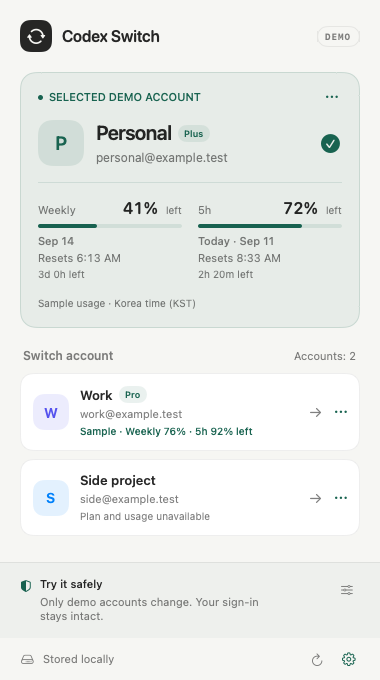
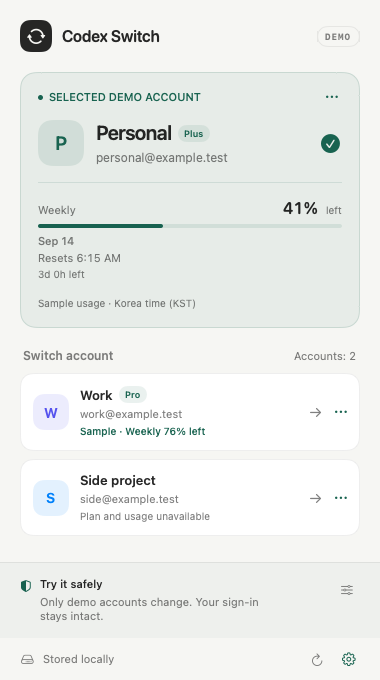
fix: remove five-hour quota from demo accounts

Changed region(s): [[0.5211, 0.2779, 0.8105, 0.4324], [0.2605, 0.2779, 0.4632, 0.3397], [0.4921, 0.6176, 0.6658, 0.6485]]

diff --git a/Sources/SwitchCore/Usage.swift b/Sources/SwitchCore/Usage.swift
@@ -61,10 +61,9 @@ public struct UsageSnapshot {
     public var preferredWindow: UsageWindow? { windows.first { $0.windowDurationMins == 10080 } ?? windows.first }
 
     public static func demo(profileID: String, index: Int, now: Date = Date()) throws -> UsageSnapshot {
-        let used = index == 0 ? [28, 59] : [8, 24]
+        let used = index == 0 ? 59 : 24
         let data = try JSONSerialization.data(withJSONObject: ["rateLimitsByLimitId": ["codex": [
-            "primary": ["usedPercent": used[0], "windowDurationMins": 300, "resetsAt": now.addingTimeInterval(8400).timeIntervalSince1970],
-            "secondary": ["usedPercent": used[1], "windowDurationMins": 10080, "resetsAt": now.addingTimeInterval(259200).timeIntervalSince1970]
+            "primary": ["usedPercent": used, "windowDurationMins": 10080, "resetsAt": now.addingTimeInterval(259200).timeIntervalSince1970]
         ]]])
         return try parse(data, profileID: profileID, plan: index == 0 ? "plus" : "pro", observedAt: now, isDemo: true)
     }

diff --git a/README.md b/README.md
@@ -10,7 +10,7 @@ A small macOS menu-bar utility for choosing between saved Codex accounts. Built 
 
 - Three synthetic accounts in demo mode, account renaming, and simulated switching/recovery.
 - Korean and English UI, light/dark themes, and visible account management menus.
-- Sample plan badges, remaining quota percentages, and exact reset dates/countdowns in Korea time (KST).
+- Sample plan badges, weekly-only demo quota percentages, and exact reset dates/countdowns in Korea time (KST).
 - Weekly-first display and optional menu-bar quota (`D` marks demo data; `~` marks an old reading).
 - Core tests for credential-file validation, private file permissions, backups, recovery, dates, and translations.
 

diff --git a/CHANGELOG.md b/CHANGELOG.md
@@ -2,6 +2,7 @@
 
 ## Unreleased
 
+- Removed the five-hour sample window from demo accounts and refreshed screenshots; demo quota is weekly-only.
 - Prepared a current-account read client with a fake transport, response/identity validation, and stale-cache handling; live transport remains disconnected.
 - Added weekly-first ordering, demo-labeled menu-bar quota, and dismissible notices after a source-based competitor review.
 
